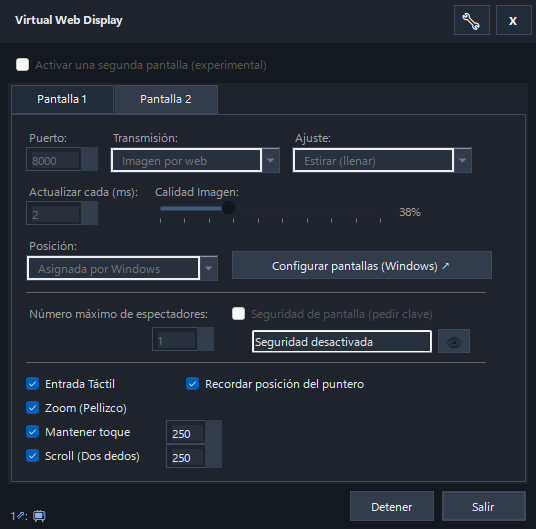
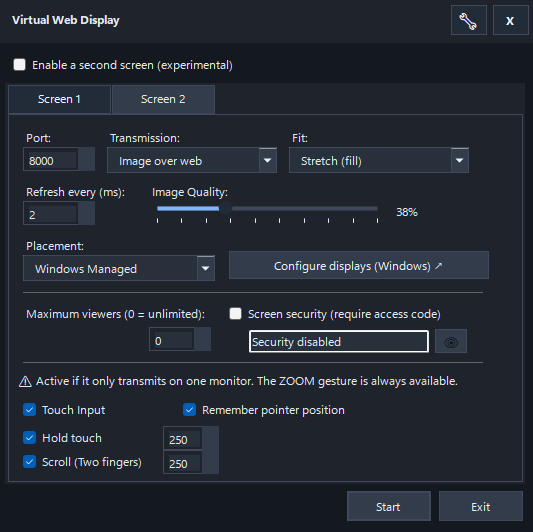
se actualiza interfaz, se limpia keepalive

diff --git a/VirtualWebDisplay_Parsec/wwwroot/js/common/keepalive.js b/VirtualWebDisplay_Parsec/wwwroot/js/common/keepalive.js
@@ -1,7 +1,6 @@
 /**
- * Keep-alive signal para mantener la sesión activa.
- * Envía pings periódicos al servidor para evitar timeout de conexión.
- * Incluye funcionalidad opcional para mantener la pantalla del dispositivo encendida.
+ * Sistema para mantener la pantalla del dispositivo encendida.
+ * (Conserva el nombre Keepalive por compatibilidad con código existente).
  * 
  * @namespace Keepalive
  */
@@ -23,14 +22,7 @@
      * Sistema de keep-alive para mantener sesión activa.
      */
     const Keepalive = {
-        // Estado de red (Keepalive)
-        _intervalId: null,
-        _intervalMs: 10000,
         _visibilityHandler: null,
-
-        // Constantes (sincronizadas con Configuration/TouchInputConstants.cs)
-        _MIN_INTERVAL_MS: 1000,      // TouchInputConstants.MinKeepaliveIntervalMs
-        _DEFAULT_INTERVAL_MS: 10000, // TouchInputConstants.DefaultKeepaliveIntervalMs
 
         // Estado de Pantalla Activa (Wake Lock)
         _isAwakeEnabled: false,
@@ -40,29 +32,19 @@
         _fadeTimeoutId: null,
 
         /**
-         * Inicia el sistema de keep-alive y prepara la pantalla activa.
-         * @param {number} [intervalMs=10000] - Intervalo entre pings en milisegundos (mínimo 1000ms)
+         * Inicia el sistema para mantener la pantalla activa.
          */
-        start(intervalMs) {
-            if (intervalMs && intervalMs >= this._MIN_INTERVAL_MS) {
-                this._intervalMs = intervalMs;
-            } else {
-                this._intervalMs = this._DEFAULT_INTERVAL_MS;
-            }
-
-            this._startPingInterval();
+        start() {
             this._setupVisibilityHandler();
             this._initScreenAwake();
 
-            log.info('Started with interval:', this._intervalMs + 'ms');
+            log.info('Screen awake system started');
         },
 
         /**
-         * Detiene el sistema de keep-alive y libera la pantalla activa.
+         * Detiene el sistema y libera la pantalla activa.
          */
         stop() {
-            this._stopPingInterval();
-            
             if (this._visibilityHandler) {
                 document.removeEventListener('visibilitychange', this._visibilityHandler);
                 this._visibilityHandler = null;
@@ -74,54 +56,19 @@
             log.info('Stopped');
         },
 
-        // --- LÓGICA DE KEEPALIVE (RED) ---
-
-        _startPingInterval() {
-            if (!this._intervalId) {
-                this._ping();
-                this._intervalId = setInterval(() => this._ping(), this._intervalMs);
-            }
-        },
-
-        _stopPingInterval() {
-            if (this._intervalId) {
-                clearInterval(this._intervalId);
-                this._intervalId = null;
-            }
-        },
-
-        /**
-         * Envía un ping al servidor.
-         * @private
-         */
-        _ping() {
-            fetch('/keepalive?t=' + Date.now(), {
-                method: 'GET',
-                cache: 'no-store',
-                keepalive: true,
-                credentials: 'same-origin'
-            }).catch(function() {
-                // Silenciar errores de red (servidor caído, etc.)
-            });
-        },
-
         _setupVisibilityHandler() {
             if (this._visibilityHandler) return;
 
             this._visibilityHandler = () => {
                 if (document.visibilityState === 'visible') {
-                    // Reanudar keepalive de red
-                    log.debug('Pestaña visible, reanudando keepalive');
-                    this._startPingInterval();
-                    
                     // Reanudar wake lock (el SO suele soltarlo al minimizar/cambiar de app)
                     if (this._isAwakeEnabled) {
                         this._applyAwakeState();
                     }
                 } else {
-                    // Pausar keepalive de red para no gastar batería
-                    log.debug('Pestaña oculta, pausando keepalive');
-                    this._stopPingInterval();
+                    // Pausar pantalla activa para no gastar batería en segundo plano
+                    this._releaseWakeLock();
+                    this._pauseHiddenVideo();
                 }
             };
 

diff --git a/VirtualWebDisplay_Parsec/UI/Forms/ScreenTabControls.cs b/VirtualWebDisplay_Parsec/UI/Forms/ScreenTabControls.cs
@@ -33,9 +33,9 @@ public sealed class ScreenTabControls
     private readonly ThemedComboBox _browserImageFitCombo;
     private readonly Label _maxViewersLabel;
     private readonly ThemedNumericUpDown _maxViewersInput;
+    private readonly Label _touch_Zone_1;
     private readonly CheckBox _touchInputCheckBox;
     private readonly CheckBox _touchPreserveCursorCheckBox;
-    private readonly CheckBox _touchZoomCheckBox;
     private readonly CheckBox _touchHoldCheckBox;
     private readonly ThemedNumericUpDown _touchHoldDelayInput;
     private readonly CheckBox _touchScrollCheckBox;
@@ -246,9 +246,11 @@ public sealed class ScreenTabControls
         };
 
         currentTop += 10;
-
         int blockLeft = 14;
 
+        // Fila notas
+        _touch_Zone_1 = CreateLabel(AppText.Get("Label_TouchZone_l1"), 5, currentTop);
+        currentTop += 26;
 
         // CheckBox "Entrada Táctil"
         _touchInputCheckBox = new CheckBox
@@ -267,20 +269,12 @@ public sealed class ScreenTabControls
             Width = 200,
             Text = AppText.Get("Tab_TouchPreserveCursor_Checkbox"),
         };
-
-        // Fila 2: Zoom, Hold, Scroll
-        _touchZoomCheckBox = new CheckBox
-        {
-            Left = blockLeft,
-            Top = currentTop + 24,
-            Width = 190,
-            Text = AppText.Get("Tab_TouchZoom_Checkbox")
-        };
+        currentTop += 28;
 
         _touchHoldCheckBox = new CheckBox
         {
             Left = blockLeft,
-            Top = currentTop + 48,
+            Top = currentTop,
             Width = 140,
             Text = AppText.Get("Tab_TouchHold_Checkbox")
         };
@@ -288,18 +282,19 @@ public sealed class ScreenTabControls
         _touchHoldDelayInput = new ThemedNumericUpDown
         {
             Left = blockLeft + 140,
-            Top = currentTop + 48,
+            Top = currentTop,
             Width = 56,
             Minimum = TouchGestureOptions.MinDelayMs,
             Maximum = TouchGestureOptions.MaxDelayMs,
             DecimalPlaces = 0,
             Increment = 10M,
         };
+        currentTop += 24;
 
         _touchScrollCheckBox = new CheckBox
         {
             Left = blockLeft,
-            Top = currentTop + 72,
+            Top = currentTop,
             Width = 140,
             Text = AppText.Get("Tab_TouchScroll_Checkbox")
         };
@@ -307,7 +302,7 @@ public sealed class ScreenTabControls
         _touchScrollDelayInput = new ThemedNumericUpDown
         {
             Left = blockLeft + 140,
-            Top = currentTop + 72,
+            Top = currentTop,
             Width = 56,
             Minimum = TouchGestureOptions.MinDelayMs,
             Maximum = TouchGestureOptions.MaxDelayMs,
@@ -330,6 +325,7 @@ public sealed class ScreenTabControls
             _jpegQualitySlider,
             _jpegQualityValueLabel,
             _fitLabel,
+            _touch_Zone_1,
             _browserImageFitCombo,
             _maxViewersLabel,
             _maxViewersInput,
@@ -341,7 +337,6 @@ public sealed class ScreenTabControls
             _touchSectionDivider,
             _touchInputCheckBox,
             _touchPreserveCursorCheckBox,
-            _touchZoomCheckBox,
             _touchHoldCheckBox,
             _touchHoldDelayInput,
             _touchScrollCheckBox,
@@ -374,11 +369,6 @@ public sealed class ScreenTabControls
             UpdateState();
             TouchPreserveCursorChanged?.Invoke(_touchPreserveCursorCheckBox.Checked);
         };
-        _touchZoomCheckBox.CheckedChanged += (_, _) =>
-        {
-            UpdateState();
-        };
-
         _touchHoldCheckBox.CheckedChanged += (_, _) =>
         {
             UpdateState();
@@ -424,9 +414,9 @@ public sealed class ScreenTabControls
         _qualityLabel.Text = AppText.Get("Tab_Label_JpegQuality");
         _fitLabel.Text = AppText.Get("Tab_Label_BrowserFit");
         _maxViewersLabel.Text = AppText.Get("Tab_Label_MaxViewers");
+        _touch_Zone_1.Text = AppText.Get("Label_TouchZone_l1");
         _touchInputCheckBox.Text = AppText.Get("Tab_Section_TouchInput");
         _touchPreserveCursorCheckBox.Text = AppText.Get("Tab_TouchPreserveCursor_Checkbox");
-        _touchZoomCheckBox.Text = AppText.Get("Tab_TouchZoom_Checkbox");
         _touchHoldCheckBox.Text = AppText.Get("Tab_TouchHold_Checkbox");
         _touchScrollCheckBox.Text = AppText.Get("Tab_TouchScroll_Checkbox");
         _screenSecurityCheckBox.Text = AppText.Get("Tab_Label_ScreenSecurity");
@@ -458,8 +448,6 @@ public sealed class ScreenTabControls
         config.MaxViewers = (int)_maxViewersInput.Value;
         config.TouchInputEnabled = _touchInputCheckBox.Checked;
         config.TouchPreserveCursor = _touchPreserveCursorCheckBox.Checked;
-
-        config.TouchZoomEnabled = _touchZoomCheckBox.Checked;
         
         config.TouchHoldEnabled = _touchHoldCheckBox.Checked;
         config.TouchHoldDelayMs = (int)_touchHoldDelayInput.Value;
@@ -489,8 +477,6 @@ public sealed class ScreenTabControls
         _touchInputCheckBox.Checked = config.TouchInputEnabled;
         _touchPreserveCursorCheckBox.Checked = config.TouchPreserveCursor;
 
-        _touchZoomCheckBox.Checked = config.TouchZoomEnabled;
-
         _touchHoldCheckBox.Checked = config.TouchHoldEnabled;
         _touchHoldDelayInput.Value = Math.Clamp(config.TouchHoldDelayMs, _touchHoldDelayInput.Minimum, _touchHoldDelayInput.Maximum);
 
@@ -515,7 +501,6 @@ public sealed class ScreenTabControls
         {
             _windowsDisplayButton,
             _touchInputCheckBox,
-            _touchZoomCheckBox,
             _touchHoldCheckBox,
             _touchHoldDelayInput,
             _touchScrollCheckBox,
@@ -629,9 +614,7 @@ public sealed class ScreenTabControls
         var baseTouchState = _serviceRunning ? touchEnabled : (tabEnabled && touchEnabled);
 
         _touchPreserveCursorCheckBox.Enabled = baseTouchState;
-        
-        _touchZoomCheckBox.Enabled = baseTouchState;
-        
+                
         _touchHoldCheckBox.Enabled = baseTouchState;
         _touchHoldDelayInput.Enabled = baseTouchState && _touchHoldCheckBox.Checked;
         

diff --git a/VirtualWebDisplay.Tests/Configuration/VirtualScreenConfigCopyTests.cs b/VirtualWebDisplay.Tests/Configuration/VirtualScreenConfigCopyTests.cs
@@ -32,7 +32,7 @@ public sealed class VirtualScreenConfigCopyTests
         MaxViewers             = 5,
         TouchInputEnabled      = true,
         TouchZoomEnabled       = false,
-        TouchZoomDelayMs       = 420,
+        TouchZoomDelayMs       = 100,
         TouchHoldEnabled       = false,
         TouchHoldDelayMs       = 420,
         TouchScrollEnabled     = false,

diff --git a/AGENT.md b/AGENT.md
@@ -517,8 +517,8 @@ public sealed class CaptureService : BackgroundService
 | `MonitorIndex` | int | Índice en Screen.AllScreens (-1 = auto) |
 | `TouchInputEnabled` | bool | Activa/desactiva entrada táctil por pantalla |
 | `TouchPreserveCursor` | bool | Preserva cursor al tocar - false por defecto |
-| `TouchZoomEnabled` | bool | Habilita gesto de zoom (pellizco) - true por defecto |
-| `TouchZoomDelayMs` | int | Delay en ms para activar zoom (50ms por defecto) |
+| `TouchZoomEnabled` | bool | Habilita gesto de zoom (pellizco) - true por defecto (oculto en interfaz) |
+| `TouchZoomDelayMs` | int | Delay en ms para activar zoom (50ms por defecto, oculto en interfaz) |
 | `TouchHoldEnabled` | bool | Habilita mantener toque para arrastrar - true por defecto |
 | `TouchHoldDelayMs` | int | Delay en ms para activar arrastre (250ms por defecto) |
 | `TouchScrollEnabled` | bool | Habilita scroll con dos dedos - true por defecto |
@@ -548,7 +548,7 @@ Cliente (Navegador)
 En vez de modos excluyentes, los gestos se configuran granularmente:
 
 - **TouchPreserveCursor**: Si es `true`, los taps (1/2/3 dedos) no mueven el cursor.
-- **Zoom (Pellizco)**: Toggle `TouchZoomEnabled` y delay `TouchZoomDelayMs`. Escalado visual web (no mueve scroll nativo).
+- **Zoom**: Toggle `TouchZoomEnabled` (control oculto). Escalado visual web (no mueve scroll nativo).
 - **Mantener toque**: Toggle `TouchHoldEnabled` y delay `TouchHoldDelayMs`. 1 dedo hold + drag → arrastrar.
 - **Scroll (Dos dedos)**: Toggle `TouchScrollEnabled` y delay `TouchScrollDelayMs`. 2 dedos hold + drag → scroll vertical/horizontal (inversión natural).
 
@@ -574,7 +574,7 @@ En vez de modos excluyentes, los gestos se configuran granularmente:
 - Scroll invertido naturalmente (drag hacia abajo = scroll hacia abajo).
 
 **4. Configuration/Models/VirtualScreenConfig.cs**:
-- Propiedades: `TouchInputEnabled`, `TouchZoomEnabled`, `TouchZoomDelayMs`, `TouchHoldEnabled`, etc.
+- Propiedades: `TouchInputEnabled`, `TouchZoomEnabled`, `TouchHoldEnabled`, etc.
 - Incluidas en `Clone()` y `CopyTo()` para persistencia.
 
 **5. UI/TrayIcon/ConfigurationFormPresenter.cs**:
